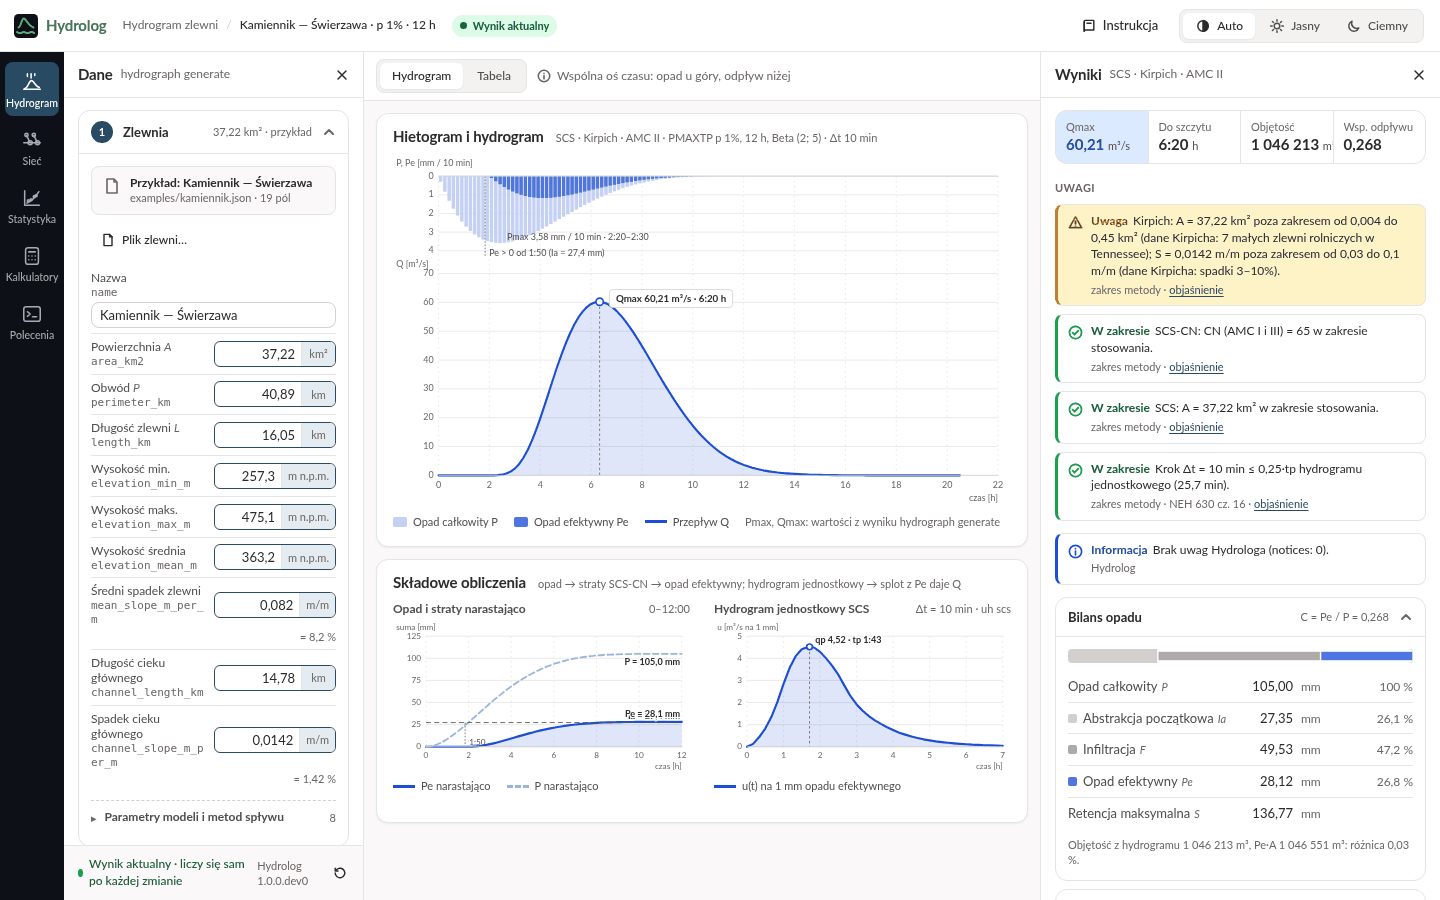
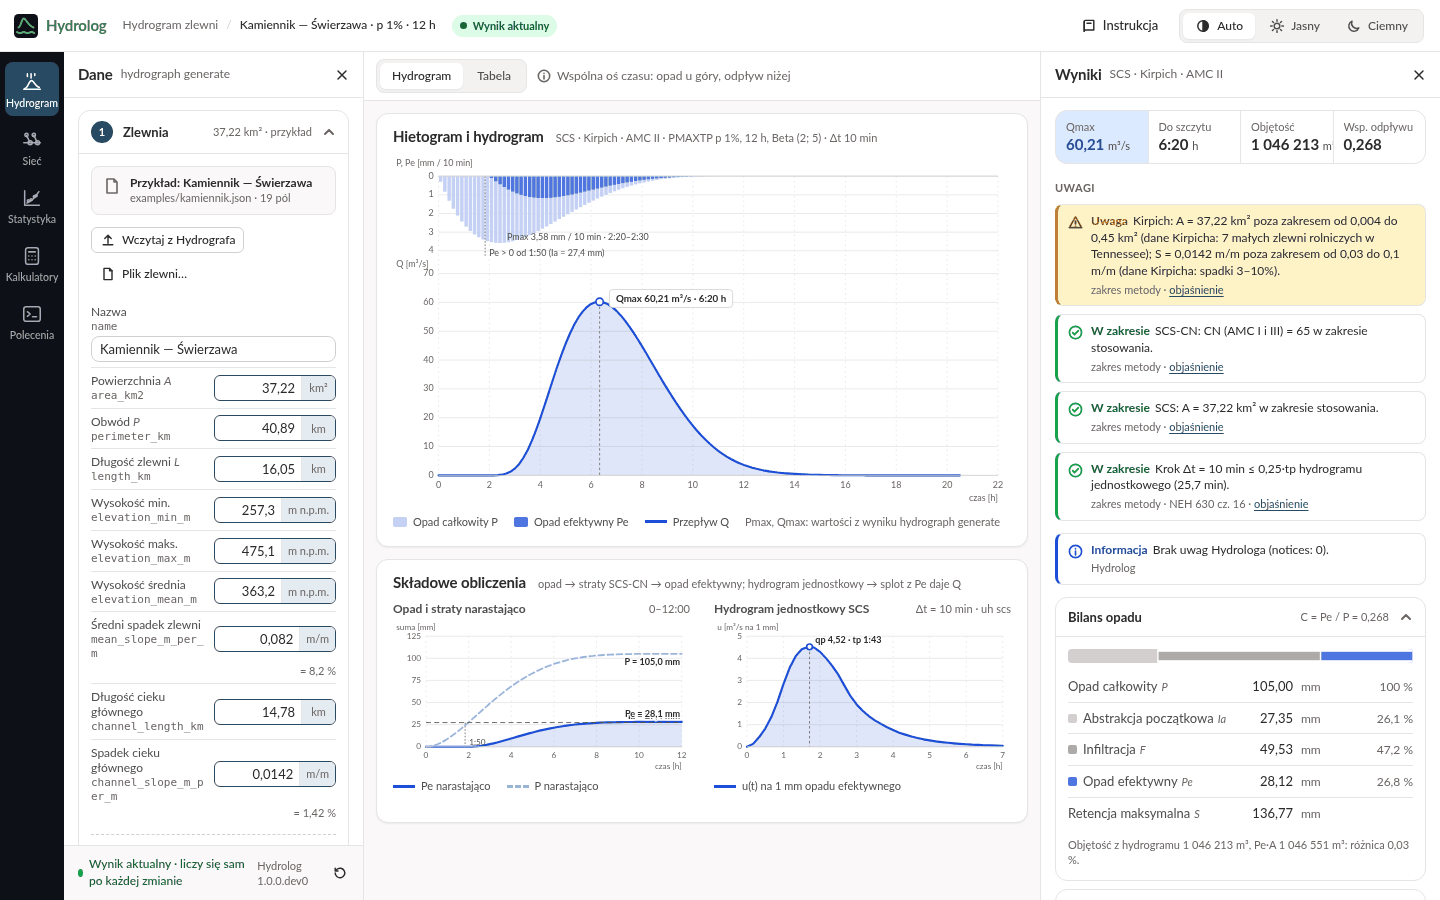
docs(gui): the guide and the docs describe the hand-off, the report and the print view
S7 was written before S6 landed and announced them as coming („po S6”). The guide's chapter 07 now describes „MD Raport”, „PDF Raport do druku” and the hand-off nogat-handoff/1: writing it from Przekazanie, reading it with „Wczytaj z Hydrografa”, the producer's result beside Hydrolog's, and Hydrograf's own buttons still to come. A picture of the panel Wyniki from Eksport to Przekazanie (eksport.png) goes with it; the steps Zlewnia and Sieć name „Wczytaj z Hydrografa”, troubleshooting explains „Nie wczytano przekazania”, and ekran.png shows the new button (the other pictures are unchanged by S6). INTEGRATION describes the hand-off as shipped (writing, provenance, reading, comparing), and USAGE and the README say where results go.

Changed region(s): [[0.0625, 0.2489, 0.25, 0.9333]]

diff --git a/src/hydrolog/gui/web/instrukcja/index.html b/src/hydrolog/gui/web/instrukcja/index.html
@@ -208,7 +208,7 @@
 
   <h3>Pięć kroków panelu „Dane”</h3>
   <ol class="numbered">
-    <li><strong>Zlewnia.</strong> Parametry z przykładu (<code>examples/kamiennik.json</code>), z pliku albo wpisane ręcznie. „Plik zlewni…” czyta plik JSON zlewni w formacie WatershedParameters (np. z Hydrografa) w przeglądarce, bez wysyłania. Pole zmienione względem przykładu lub pliku jest oznaczone, a „przywróć” wraca do wartości źródła. „Parametry modeli i metod spływu” zbierają pola potrzebne tylko niektórym metodom (np. udział lasów i zabudowy, spływ po stoku). Spadki podajesz w m/m, a obok widać je w procentach.</li>
+    <li><strong>Zlewnia.</strong> Parametry z przykładu (<code>examples/kamiennik.json</code>), z pliku, z przekazania albo wpisane ręcznie. „Plik zlewni…” czyta plik JSON zlewni w formacie WatershedParameters (np. z Hydrografa) w przeglądarce, bez wysyłania, a „Wczytaj z Hydrografa” wczytuje przekazanie: zlewnię razem z opadem i modelem (<a href="#przekazanie">Przekazanie</a>). Pole zmienione względem przykładu lub pliku jest oznaczone, a „przywróć” wraca do wartości źródła. „Parametry modeli i metod spływu” zbierają pola potrzebne tylko niektórym metodom (np. udział lasów i zabudowy, spływ po stoku). Spadki podajesz w m/m, a obok widać je w procentach.</li>
     <li><strong>Czas koncentracji.</strong> Metoda: Kirpich (domyślna), NRCS, Giandotti, FAA, Kerby, Kerby–Kirpich, albo czas podany ręcznie. „Porównaj metody” otwiera porównanie wszystkich sześciu w <a href="#kalkulatory">Kalkulatorach</a>. Modele Nash i Snyder nie używają czasu koncentracji.</li>
     <li><strong>Opad.</strong> PMAXTP: wybierasz prawdopodobieństwo i czas trwania, a wysokość opadu z atlasu wpisujesz (Hydrolog niczego nie pobiera). Hietogram: wysokość i czas trwania podane ręcznie. Własna seria: wysokości opadu w kolejnych krokach, wklejone z arkusza albo wczytane z kolumny pliku CSV. Rozkład deszczu w czasie: blokowy, trójkątny, Beta albo Euler II.</li>
     <li><strong>Straty SCS-CN.</strong> CN zlewni dla przeciętnej wilgotności (AMC II), wilgotność poprzedzająca: I sucho, II przeciętnie, III mokro (CN zmienia się wtedy, jak pokazuje podpowiedź), oraz straty początkowe λ (domyślnie 0,2).</li>
@@ -236,7 +236,7 @@
     <figcaption>Przykład po „Oblicz sieć”, z wybranym odcinkiem R_A.</figcaption>
   </figure>
   <ul>
-    <li><strong>Sieć</strong> pochodzi z pliku dokumentu sieci (<code>hydrolog-network/1</code>, „Plik sieci…”) razem z plikami, które czyta („Pliki towarzyszące…”: dopływy, tabele zbiorników), albo z przykładu („Przykład”, <code>examples/siec.json</code>: trzy zlewnie, dwa odcinki, dwa złącza i wylot). „Zapisz sieć” pobiera dokument ze zmianami. Układ połączeń pochodzi z pliku: zmieniasz parametry węzłów, nie to, co z czym się łączy.</li>
+    <li><strong>Sieć</strong> pochodzi z pliku dokumentu sieci (<code>hydrolog-network/1</code>, „Plik sieci…”) razem z plikami, które czyta („Pliki towarzyszące…”: dopływy, tabele zbiorników), z przekazania („Wczytaj z Hydrografa”, zob. <a href="#przekazanie">Przekazanie</a>) albo z przykładu („Przykład”, <code>examples/siec.json</code>: trzy zlewnie, dwa odcinki, dwa złącza i wylot). „Zapisz sieć” pobiera dokument ze zmianami. Układ połączeń pochodzi z pliku: zmieniasz parametry węzłów, nie to, co z czym się łączy.</li>
     <li><strong>Schemat</strong> jest rysowany pionowo: źródła u góry, wylot na dole, linia główna prosto, dopływy z boków. Kliknij węzeł (albo przejdź do niego klawiszem <kbd>Tab</kbd> i naciśnij <kbd>Enter</kbd> lub spację): jego ustawienia otworzą się w panelu „Dane”, a wynik w panelu „Wyniki”. Te same węzły są na liście w panelu „Dane” i w widoku „Tabela węzłów”.</li>
     <li><strong>Ustawienia węzła</strong> zależą od jego rodzaju: zlewnia (powierzchnia, CN, opad), odcinek (metoda: lag, Muskingum, Muskingum-Cunge, kaskada zbiorników albo level-pool, i jej parametry), zbiornik (tabela pojemność–odpływ), złącze, wylot. Po zmianie plakietka mówi „Dane zmienione: oblicz ponownie”, a wyniki są oznaczone jako dotyczące poprzednich danych.</li>
     <li><strong>Wyniki</strong>: przy każdym węźle schematu szczyt i czas do szczytu; w panelu „Wyniki” kafelki wylotu, a dla wybranego węzła jego hydrogram (dla odcinka dopływ i odpływ), parametry i rzędne. W przykładzie wylot OUT ma szczyt <span class="ex" data-example="siec-q">19,1&nbsp;m³/s</span> po <span class="ex" data-example="siec-tp">2:25&nbsp;h</span>.</li>
@@ -315,13 +315,28 @@
   <p class="kicker">07 · Wyniki poza Hydrologiem</p>
   <h2 id="eksport-title">Eksport i przekazanie wyników</h2>
   <p>Część „Eksport” w panelu „Wyniki” zapisuje bieżący wynik na Twoim komputerze:</p>
+  <figure class="inline-figure">
+    <a href="img/eksport.png"><img src="img/eksport.png" width="400" height="703" loading="lazy" alt="Dół panelu Wyniki Hydrogramu zlewni: przyciski eksportu CSV Tabela, JSON Wynik, PNG Wykres, MD Raport i PDF Raport do druku, wywołanie hydrograph generate w wierszu poleceń, a pod nim część Przekazanie z przyciskami Plik przekazania i Do schowka oraz opisem, co zawiera przekazanie."></a>
+    <figcaption>Eksport, wywołanie i przekazanie w Hydrogramie zlewni.</figcaption>
+  </figure>
   <dl class="defs">
     <div><dt>CSV · Tabela</dt><dd>Szeregi wyniku w arkuszu kalkulacyjnym (przecinek jako separator, kropka dziesiętna, UTF-8). Hydrogram zlewni zapisuje kolumny <code>time_min,discharge_m3s,precipitation_mm,effective_precipitation_mm</code>, które czytają polecenia trasowania Hydrologa i Hydraulik. Sieć zapisuje jeden węzeł albo wszystkie węzły.</dd></div>
     <div><dt>JSON · Wynik</dt><dd>Cały wynik tak, jak go zwrócił Hydrolog; Sieć zapisuje też dokument sieci.</dd></div>
     <div><dt>PNG · Wykres</dt><dd>Widoczny wykres jako obraz; w Sieci schemat. Sieć zapisuje też schemat Hydrologa jako SVG.</dd></div>
+    <div><dt>MD · Raport</dt><dd>Hydrogram zlewni: raport obliczeniowy w Markdown, pliku tekstowym z nagłówkami i tabelami, który otworzy każdy edytor tekstu. Hydrolog pisze go poleceniem <code>report generate</code> z danymi i ustawieniami pokazanego wyniku, a przeglądarka pobiera plik.</dd></div>
+    <div><dt>PDF · Raport do druku</dt><dd>Hydrogram zlewni i Sieć: okno drukowania przeglądarki z sekcją ułożoną na kartkach A4: wykresy, wyniki, uwagi i wywołanie, a na końcu dane z ich pochodzeniem; bez przycisków, w jasnym motywie i ze wszystkimi częściami rozwiniętymi. Plik PDF zapiszesz w tym oknie, wybierając „Zapisz jako PDF”. Zwykłe drukowanie strony (<kbd>Ctrl</kbd>+<kbd>P</kbd>) daje ten sam widok.</dd></div>
     <div><dt>Wywołanie</dt><dd>Wiersz polecenia (CLI), kod Pythona albo wywołanie MCP, które powtórzą obliczenie poza przeglądarką.</dd></div>
   </dl>
-  <p class="note-box">Raport obliczeniowy w Markdown, widok do druku (PDF z okna drukowania przeglądarki) i przekazanie wyników do Hydrografa i z powrotem („Plik przekazania”, „Do schowka”, „Wczytaj z Hydrografa”) dochodzą w kolejnym etapie (po S6).</p>
+
+  <h3 id="przekazanie">Przekazanie: Hydrograf i Hydrolog</h3>
+  <p>Hydrograf wyznacza zlewnię na mapie, a Hydrolog liczy dla niej wezbranie. Dane przechodzą między nimi jako <strong>przekazanie</strong>: plik JSON w formacie <code>nogat-handoff/1</code> ekosystemu Nogat. Niesie zlewnię albo całą sieć, pochodzenie danych (np. opad PMAXTP p&nbsp;1% w 12&nbsp;h, plik zlewni albo punkt na mapie) i wynik do porównania.</p>
+  <ul>
+    <li><strong>Wysyłanie.</strong> Część „Przekazanie” na końcu panelu „Wyniki” w Hydrogramie zlewni i w Sieci: „Plik przekazania” pobiera plik <code>&lt;nazwa&gt;.handoff.json</code>, a „Do schowka” kopiuje to samo do schowka. Z Hydrogramu zlewni idzie zlewnia z opadem, stratami, modelem i wynikiem, z Sieci cała sieć, a po „Oblicz sieć” także wynik wylotu.</li>
+    <li><strong>Wczytywanie.</strong> „Wczytaj z Hydrografa” w pierwszym kroku panelu „Dane” (w Hydrogramie zlewni krok „Zlewnia”, w Sieci krok „Sieć”), a w nim „Plik przekazania…” albo „Wklej ze schowka”. Gdy przeglądarka nie daje dostępu do schowka, pojawia się pole, w które wklejasz przekazanie (<kbd>Ctrl</kbd>+<kbd>V</kbd>). Jedna zlewnia z opadem otwiera się w Hydrogramie zlewni, każda inna sieć w Sieci i trasowaniu. Karta w panelu „Dane” mówi, skąd są dane, np. „Z Hydrografa: zlewnia punktu 51,0154° N, 15,8900° E”.</li>
+    <li><strong>Porównanie.</strong> Gdy przekazanie niesie wynik, część „Przekazanie” stawia go obok wyniku Hydrologa: Qmax, czas do szczytu, objętość i wersję programu, który liczył. Wartości, które się różnią, są wyróżnione; zwykle to skutek innej wersji Hydrologa, której używa Hydrograf. Po zmianie danych porównanie przypomina, że wynik producenta dotyczy danych z przekazania. W Sieci wynik Hydrologa do porównania daje „Oblicz sieć”.</li>
+  </ul>
+  <p>Przed wczytaniem Hydrolog sprawdza przekazanie. Gdy coś się nie zgadza, niczego nie zmienia i wypisuje przyczyny (zob. <a href="#problemy">Gdy coś nie działa</a>).</p>
+  <p class="note-box">W Hydrografie przyciski „Wczytaj z Hydrologa” i „Przenieś do Hydrologa” są w przygotowaniu. Już teraz przekazanie z Hydrologa wczytasz z powrotem w Hydrologu, np. w innej przeglądarce albo na innym komputerze.</p>
   <p class="back"><a href="#toc-title">↑ Spis treści</a></p>
 </section>
 
@@ -356,6 +371,7 @@
     <div><dt>Obliczenie przerwane</dt><dd>Obliczenie dłuższe niż 30 sekund jest przerywane. Zmniejsz zadanie, np. wydłuż krok czasowy albo skróć szereg.</dd></div>
     <div><dt>Komunikat z dopiskiem (EN)</dt><dd>Hydrolog nie ma jeszcze jego polskiej wersji; treść jest po angielsku.</dd></div>
     <div><dt>Plik nie wczytuje się</dt><dd>Sprawdź rozmiar (najwyżej 20&nbsp;MB) i format: CSV z wierszem nagłówka, przecinkiem albo średnikiem jako separatorem, albo JSON.</dd></div>
+    <div><dt>„Nie wczytano przekazania”</dt><dd>Plik albo tekst ze schowka nie jest poprawnym przekazaniem <code>nogat-handoff/1</code>. Lista pod przyciskiem mówi, co i gdzie się nie zgadza, np. nieznane pole albo wartość spoza zakresu; dane sekcji się nie zmieniły. Sam plik zlewni wczytaj przyciskiem „Plik zlewni…”, a dokument sieci przyciskiem „Plik sieci…”.</dd></div>
     <div><dt>Chcesz zacząć od nowa</dt><dd><span class="key-mark" aria-hidden="true">↻</span> „Wyczyść” u dołu panelu „Dane” przywraca przykład tej sekcji.</dd></div>
   </dl>
   <p class="back"><a href="#toc-title">↑ Spis treści</a></p>

diff --git a/docs/INTEGRATION.md b/docs/INTEGRATION.md
@@ -507,7 +507,14 @@ Mounted like this, the page is `/m/hydrolog/` and its API `/m/hydrolog/api/...`;
 
 ### Web GUI: the hand-off with Hydrograf (`nogat-handoff/1`)
 
-This part comes with the plan's slice S6 (po S6), together with the page's buttons („Plik przekazania”, „Do schowka”, „Wczytaj z Hydrografa”) and the copy of the schema in `schemas/nogat/handoff-1.schema.json`. The GUI and Hydrograf exchange a watershed or a network as the envelope `nogat-handoff/1`, which Nogat publishes (`schemas/exchange/handoff-1.schema.json`) and Hydrolog never defines; its `payload` is `hydrolog-network/1`. From Hydrogram zlewni it carries one `subcatchment` with its watershed, runoff and rainfall and the `outlet`; from Sieć the whole network. `provenance` names the source of the rainfall (the PMAXTP probability and duration as typed, or the hyetograph) and of the watershed, `producer` the tool, its version and the page, and the optional `result` the producer's `peak_discharge_m3s`, `time_to_peak_min` and `total_volume_m3` (with `computed_with` when another tool computed them, as Hydrograf does with Hydrolog 0.6.3). Field names are Hydrolog's (`channel_length_km`; slopes in m/m); mapping Hydrograf's own names is Hydrograf's side. A hand-off with one subcatchment opens in Hydrogram zlewni, one with more in Sieć, and the producer's version and result are shown beside Hydrolog's own.
+The GUI and Hydrograf exchange a watershed or a network as the envelope `nogat-handoff/1`, which Nogat publishes (`schemas/exchange/handoff-1.schema.json`, Nogat `a01097c`) and Hydrolog never defines; Hydrolog keeps an unchanged copy in `schemas/nogat/handoff-1.schema.json` (its SHA-256 in `schemas/nogat/README.md`). The `payload` is `hydrolog-network/1`.
+
+- **Writing.** „Przekazanie” at the end of the panel Wyniki: „Plik przekazania” downloads `<subject>.handoff.json` and „Do schowka” copies the same text. From Hydrogram zlewni it carries one `subcatchment` made from the shown run (its watershed, `runoff` and `rainfall`) and the `outlet`; from Sieć the whole network, with the outlet's result once „Oblicz sieć” has computed the network as it is. `producer` is `{"tool": "hydrolog", "version": ..., "page": "#hydrogram"}` (or `"#siec"`), and `result` holds `command` (`hydrograph generate` or `route network`), `peak_discharge_m3s`, `time_to_peak_min` and `total_volume_m3`.
+- **Provenance.** In Hydrogram zlewni `rainfall` is `{"source": "pmaxtp", "probability_percent": ..., "duration_min": ...}` as typed, or `{"source": "user"}`; `watershed` is `{"source": "hydrolog", "file": "examples/kamiennik.json"}`, `{"source": "file", "file": ...}`, `{"source": "user"}` or the received hand-off's own entry, with `changed` listing the fields edited since, if any; with Nash by Lutz, `runoff` is `{"source": "hydrolog", "command": "uh nash", "method": "lutz"}`. Sieć names its network's file (`network`) or keeps a received hand-off's provenance. Unchanged data written again keep the received entries, latitude and longitude included.
+- **Reading.** „Wczytaj z Hydrografa” in the first step of Hydrogram zlewni and of Sieć reads a hand-off file or the clipboard, with a field to paste into where the browser gives no clipboard. The envelope is checked against the validation keywords of Nogat's schema (`web/src/handoff/envelope.js`, a copy without the annotations, which a browser test compares with the schema; copy it again when Nogat changes the schema) and the payload against `hydrolog-network-1.schema.json`. A refused hand-off lists its problems in Polish with their paths and changes nothing. Exactly one subcatchment computed from rainfall, with the outlet below it, opens in Hydrogram zlewni, which refuses it without rainfall on the node or the network, or with a rainfall series whose step is not the network's; any other network opens in Sieć. PMAXTP provenance sets Hydrogram's probability and duration when both are on its lists and the duration is the payload's; otherwise the rainfall opens as a hyetograph of the given depth and duration.
+- **Comparing.** The producer's result is shown beside Hydrolog's own with both versions (`result.computed_with` when another tool computed it, as Hydrograf does with Hydrolog 0.6.3, else `producer`), each differing value marked; once the data differ from those handed over, a note says that the producer's result is of the data handed over.
+
+Field names are Hydrolog's (`channel_length_km`; slopes in m/m); mapping Hydrograf's own names is Hydrograf's side, together with its „Wczytaj z Hydrologa” and „Przenieś do Hydrologa” (step 12 of Nogat's platform plan). A hand-off through Nogat's shell, without a file or the clipboard, waits for the platform's kit.
 
 ### IMGWTools: series export → `stats` commands
 

diff --git a/docs/CHANGELOG.md b/docs/CHANGELOG.md
@@ -156,9 +156,9 @@ Inline SVG charts of the GUI in the look of the approved mockup, coloured by Nog
 - The print view: `css/print.css` (`media="print"`) puts the shown section on A4 in one column (its charts, results, notices, a received hand-off, the command line, then the data with their source) without controls; „Raport do druku” in Hydrogram zlewni and Sieć, and the browser's own print, print it in the light theme with every part open (`src/print.js`); PDF through the browser.
 
 #### Web GUI: „Instrukcja”, the welcome dialog and the guide (plan [2026-11-02-hydrolog-gui](plans/2026-11-02-hydrolog-gui.md), slice S7)
-- The guide for users, `web/instrukcja/` (Polish, static HTML under the app's top bar and theme, both themes, phones): it starts in plain words for people interested in rivers and wetlands, not hydrology (what Hydrolog is; what to expect and what not: estimates, not a forecast or an official flood hazard map; example questions and who can use it; a first result in three steps; a glossary of zlewnia, przepływ, opad projektowy, hietogram, hydrogram, CN, czas koncentracji and trasowanie fali), then one chapter per section with pictures of the running GUI, exports, the phone, the theme, the user's data, troubleshooting and running it. Its contents tell a beginner to read only „Na start”. The numbers it quotes are those of the shipped examples, and a browser test computes the examples and compares them.
+- The guide for users, `web/instrukcja/` (Polish, static HTML under the app's top bar and theme, both themes, phones): it starts in plain words for people interested in rivers and wetlands, not hydrology (what Hydrolog is; what to expect and what not: estimates, not a forecast or an official flood hazard map; example questions and who can use it; a first result in three steps; a glossary of zlewnia, przepływ, opad projektowy, hietogram, hydrogram, CN, czas koncentracji and trasowanie fali), then one chapter per section with pictures of the running GUI, the exports (the Markdown report, the print view and the hand-off with Hydrograf among them), the phone, the theme, the user's data, troubleshooting and running it. Its contents tell a beginner to read only „Na start”. The numbers it quotes are those of the shipped examples, and a browser test computes the examples and compares them.
 - „Instrukcja” in the top bar opens a welcome dialog: a native modal `<dialog>` with three plain sentences, „Otwórz instrukcję” (the guide in a new tab), „Przejdź do aplikacji” and „Nie pokazuj ponownie”. It opens on every visit until that box is ticked (`localStorage` `hydrolog-gui/welcome/1`), keeps the choice whichever way it is closed (a button, Escape, a click beside it), and a click with a modifier on „Instrukcja” follows the link to the guide instead. Inside Nogat's shell (`?nogat=1`) there is none.
-- Documentation: the extra `gui` and a „Web GUI” section in the README; „8. The web GUI” in `docs/USAGE.md` (in plain words first, starting it, the data it keeps, running it as a service behind an authenticating proxy such as Cloudflare Access); hosting it in Nogat's GUI platform and the hand-off with Hydrograf in `docs/INTEGRATION.md`.
+- Documentation: the extra `gui` and a „Web GUI” section in the README; „8. The web GUI” in `docs/USAGE.md` (in plain words first, where results go, starting it, the data it keeps, running it as a service behind an authenticating proxy such as Cloudflare Access); hosting it in Nogat's GUI platform and the hand-off with Hydrograf (`nogat-handoff/1`: writing, provenance, reading, comparing) in `docs/INTEGRATION.md`.
 - The final smoke (`tests/e2e/test_smoke.py`): every section and the guide open without a console error or a CSP violation in both themes at 1440 and 390 px. The browser tests start with the welcome dialog hidden unless a test asks for it, and the contract checks of the page (no inline script or style, every linked file present) cover the guide too.
 
 ### Changed

diff --git a/README.md b/README.md
@@ -263,7 +263,7 @@ VS Code, `.vscode/mcp.json` (key `servers`):
 
 ## Web GUI
 
-The web GUI is Hydrolog in a browser, in Polish, for people who would rather not use a command line: open a section, change the numbers of its example and read the result. **Hydrogram zlewni** gives the runoff hydrograph of one watershed after a design storm and recomputes it after every change; **Sieć i trasowanie** draws a river network of subcatchments, reaches, reservoirs and junctions and routes it; **Statystyka przepływów** fits flood frequency distributions to annual maxima; **Kalkulatory** compares the time of concentration of six methods and holds fifteen single calculators; **Wszystkie polecenia** has a form for every command of the catalog. Every number comes from the same catalog as the CLI, and every result shows the command line that gives it. The results are estimates of simplified methods, not a forecast or a flood hazard map. A guide for users, in Polish and starting in plain words, opens from „Instrukcja” in the top bar.
+The web GUI is Hydrolog in a browser, in Polish, for people who would rather not use a command line: open a section, change the numbers of its example and read the result. **Hydrogram zlewni** gives the runoff hydrograph of one watershed after a design storm and recomputes it after every change; **Sieć i trasowanie** draws a river network of subcatchments, reaches, reservoirs and junctions and routes it; **Statystyka przepływów** fits flood frequency distributions to annual maxima; **Kalkulatory** compares the time of concentration of six methods and holds fifteen single calculators; **Wszystkie polecenia** has a form for every command of the catalog. Every number comes from the same catalog as the CLI, and every result shows the command line that gives it. Results leave the page as CSV, JSON or PNG, a Markdown report, a print view (a PDF by the browser) or a hand-off `nogat-handoff/1`, the format in which the GUI exchanges watersheds and networks with Hydrograf. The results are estimates of simplified methods, not a forecast or a flood hazard map. A guide for users, in Polish and starting in plain words, opens from „Instrukcja” in the top bar.
 
 ```sh
 hydrolog gui serve                          # http://127.0.0.1:8070/, opened in the browser; Ctrl+C stops it

diff --git a/docs/USAGE.md b/docs/USAGE.md
@@ -1130,6 +1130,12 @@ the GUI's address).
 | Kalkulatory | the time of concentration by six methods for the watershed of Hydrogram zlewni, and fifteen single calculators | `tc watershed` and fifteen others |
 | Wszystkie polecenia | a form for every command of the catalog | all but `gui serve`, `config show` and `commands guide` |
 
+A result leaves the page as CSV, JSON or PNG; from Hydrogram zlewni also as a Markdown report
+(`report generate`), and from Hydrogram zlewni and Sieć through a print view on A4 (a PDF by the
+browser's „Zapisz jako PDF”) and as a hand-off `nogat-handoff/1`. „Wczytaj z Hydrografa” opens a
+watershed or a network handed over that way, with the producer's result beside Hydrolog's
+([INTEGRATION.md](INTEGRATION.md#web-gui-the-hand-off-with-hydrograf-nogat-handoff1)).
+
 ### Starting it
 
 ```sh
